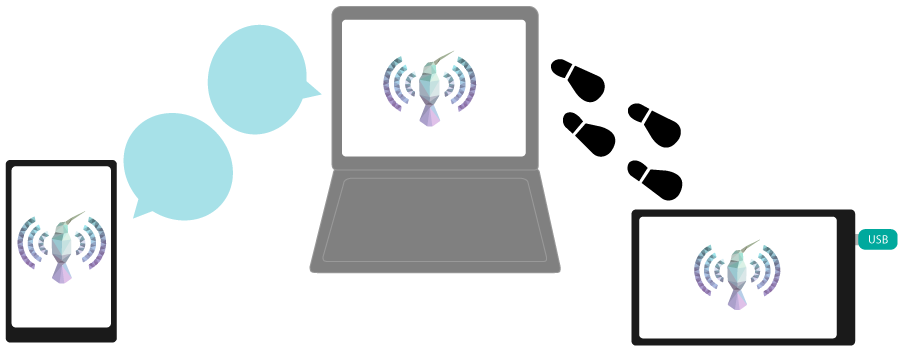
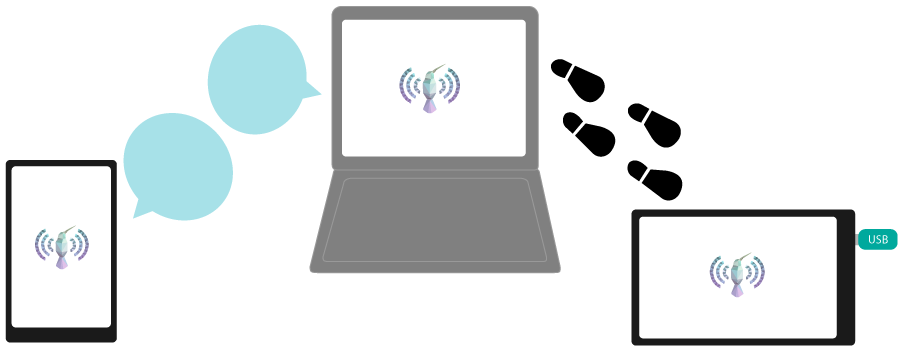
changed images, adjusted spacing

Changed region(s): [[0.0, 0.6, 0.1244, 0.8286], [0.7467, 0.6857, 0.8711, 0.8857], [0.4044, 0.1429, 0.5289, 0.3714]]

diff --git a/fle_site/apps/main/templates/main/sections/ecosystem.html b/fle_site/apps/main/templates/main/sections/ecosystem.html
@@ -5,7 +5,7 @@
 		<h2>Open Source Educational Content</h2>
 		<p>Great educational content is getting easier to access on the internet, and it's about time someone brings it offline too. All the educational content that Kolibri offers for curation is licensed to be freely distributed and remixed for your own curricular needs.</p>
 	</div>
-	<div class="col-md-5"><img id="offline-placeholder" src="{% static 'img/learn-offline-2.png' %}"></div>
+	<div class="col-md-5"><img id="offline-placeholder" src="{% static 'img/learn-offline.png' %}"></div>
 	<div class="col-md-7">
 		<h2>Learn, Online and Offline</h2>
 		<p>Learners can engage with high-quality educational material from the internet, even when internet connection is unreliable. Kolibri will enable educators to integrate and distribute their unique educational content through an offline server that is accessible through a local network.</p>
@@ -42,26 +42,30 @@
 
 <div class="container">
 	<div class="col-md-4">
+<<<<<<< HEAD
 		<img id="vectorization-placeholder" src="{% static 'img/vectorization-graphics-2.png' %}">
+=======
+		<img id="vectorization-placeholder" src="{% static 'img/vectorization.png' %}">
+
+>>>>>>> changed images, adjusted spacing
 	</div>
 
 	<div class="col-md-8">
 		<h3>Content Vectorization</h3>
 		<p>Downloading content is easy and fast. We found a way to compress huge libraries of content to fit on tiny USB hard drives, which is done by converting only the necessary parts of content items to scalable components.</p>
-	</div> <br><hr>
-
+	</div> <hr>
 
 
 </div>
-<br><hr>
+<hr>
 
 <div class="container">	
-	<div class="col-md-8">
+	<div class="col-md-12" id="cross-platform">
 		<h3>Cross Platform Installation on Any Device</h3>
 		<p>Kolibri is an application that can be installed on any device or platform (Windows, Linux, OSX, Android). Students and teachers can use any inexpensive, low-power device, such as an Android tablet, and still be able to engage with rich educational content through Kolibri.</p>
 	</div>
 
-	<div class="col-md-4">
-		<img id="vectorization-placeholder" src="{% static 'img/cross-platform.png' %}">
+	<div class="col-md-12" id="platform-img">
+		<img id="cross-platform-img" src="{% static 'img/cross-platform-2.png' %}">
 	</div>
-</div> <br><hr>
+</div> <hr>

diff --git a/fle_site/apps/main/static/css/kolibri.css b/fle_site/apps/main/static/css/kolibri.css
@@ -4,7 +4,9 @@
 h1, h2, h3 {
 	color:#6F3496;
 	margin-top: 5%;
+	margin-bottom:2%;
 }
+
 h1 {
 	font-size: 40px;
 }
@@ -15,7 +17,9 @@ hr {
 p {
 	font-size: 18px;
 	letter-spacing: 0.03em;
+	margin-bottom:2%;
 }
+
 .kolibri-section {
 	margin: 10% auto;
 }
@@ -140,16 +144,14 @@ p {
 	-moz-background-size: cover;
 	-o-background-size: cover;
 	background-size: cover;
-	padding-top:12%;
-	padding-bottom:17%;
+	padding-top:14%;
+	padding-bottom:15%;
 }
-
 
 #kolibri-about h1 {
 	margin-top:5%;
 	color:#ffffff;
 	margin-bottom:2%;
-
 }
 
 #kolibri-about p {
@@ -205,12 +207,28 @@ p {
 .break-barriers h1 {
 	margin-bottom: 5%;
 }
+
 #offline {
 	text-align: center;
 }
+
 #offline-placeholder {
 	max-width: 90%;
 	height: auto;
+}
+
+#vectorization-placeholder {
+	margin-top:5%;
+	max-width: 90%;
+}
+
+#cross-platform-img {
+	width:60%;
+	height:60%;
+}
+
+#platform-img {
+	text-align:center;
 }
 
 
@@ -220,15 +238,19 @@ p {
 #curate-img {
 	max-width: 90%;
 }
+
 #parallax {
 	font-size:22px;
 }
+
 #features-img {
 	margin-top:5%;
 	margin-bottom:5%;
 }
 
-
+#feature-banner {
+	margin-top:-17%;
+}
 
 /*======================================================================*/
 /*======================= RESPONSIVE QUERIES ===========================*/

diff --git a/fle_site/apps/main/templates/main/kolibri.html b/fle_site/apps/main/templates/main/kolibri.html
@@ -51,8 +51,6 @@
 	
 	</div>
 
-	<hr>
-
 	<!-- Ecosystem features -->
 	<div id="ecosystem" class="row kolibri-section">
 		{% include "main/sections/ecosystem.html" %}
